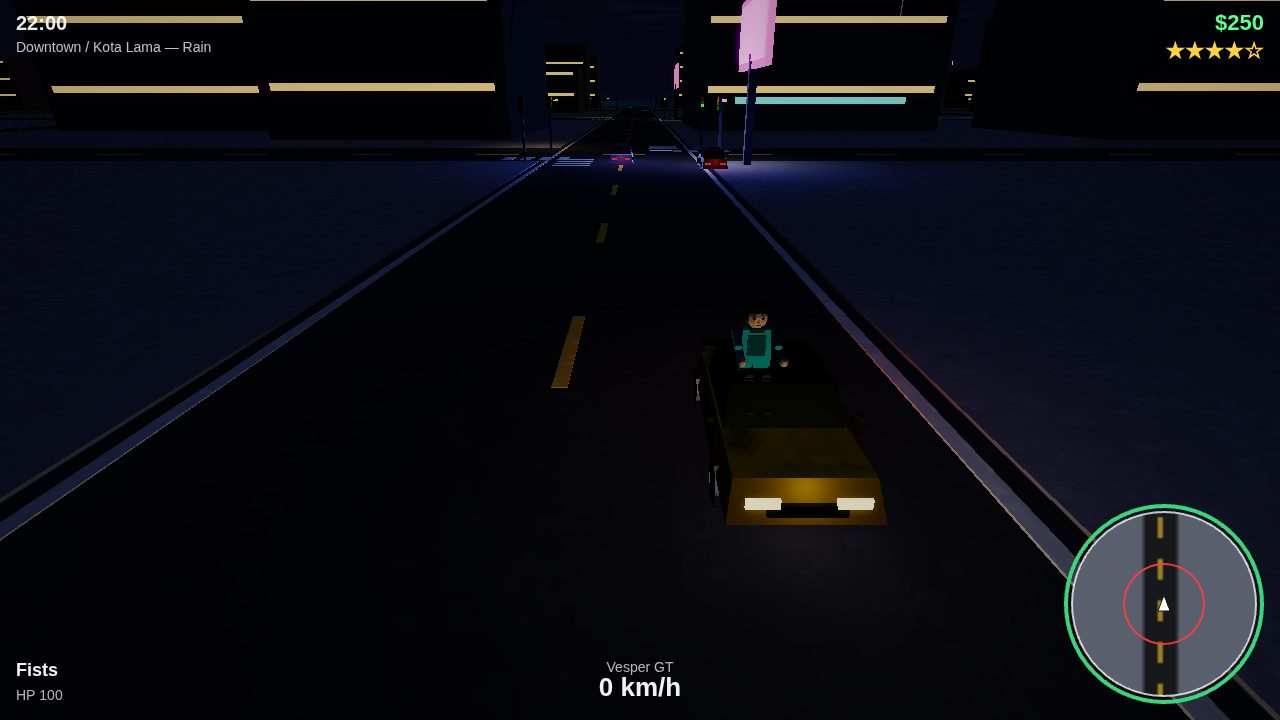
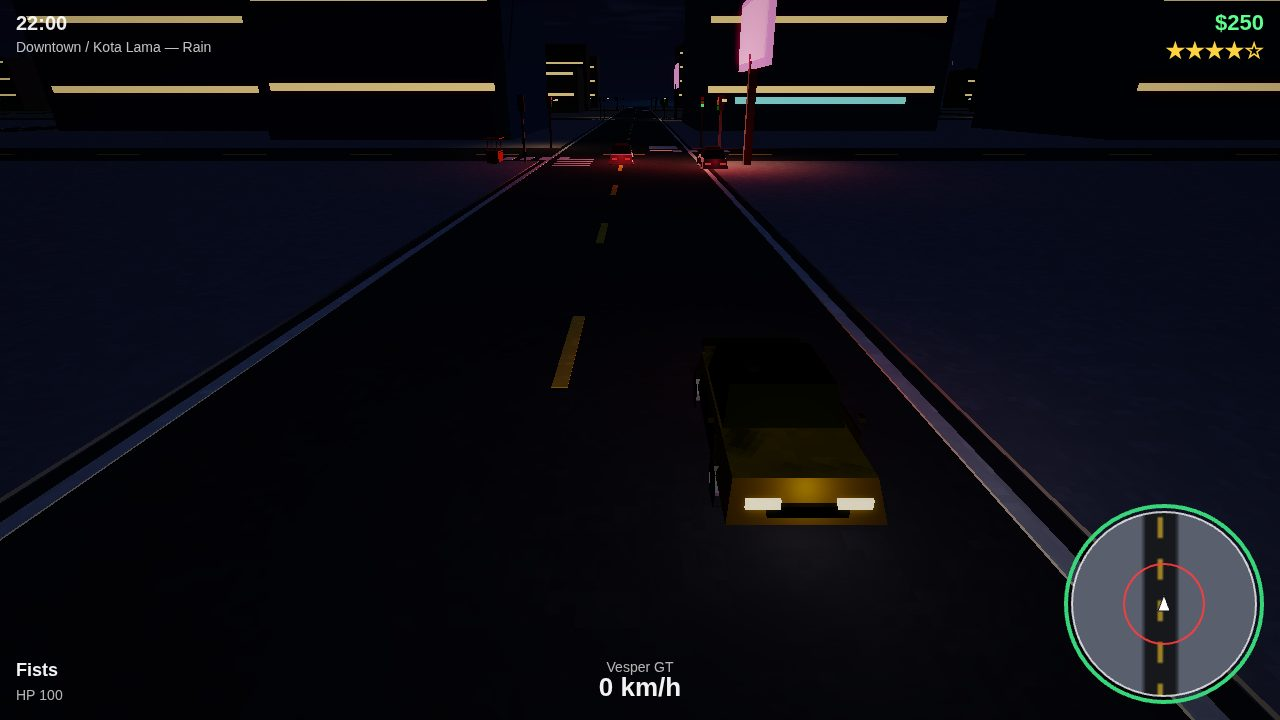
step 18: final checkpoint — screenshot staging, main.ts size gate, README final

Changed region(s): [[0.375, 0.1222, 0.6875, 0.275], [0.5625, 0.4278, 0.625, 0.5194], [0.5625, 0.0611, 0.5938, 0.0917]]

diff --git a/main.ts b/main.ts
@@ -21,6 +21,11 @@
 // refuses to write it unless both builds are byte-identical, then reads
 // the written file back and verifies it matches — so a run can never
 // silently ship a non-deterministic dossier.
+//
+// Final checkpoint revision (step 18): the screenshot check also reads
+// each image's pixel size (JPEG SOF0/SOF2, PNG IHDR) and enforces the
+// gate's long side ≤ 1280 and short side ≥ 480 — a wrong-size
+// screenshot used to pass this program and fail only at the scorer.
 
 import {
   cpSync,
@@ -45,15 +50,17 @@ const outputDir = process.env.MAKEFUN_OUTPUT_DIR ?? '/output';
 // directories totalling at most 48 MiB, with no path longer than 1000
 // bytes; game/index.html is a regular file of at most 1 MiB; screenshots/
 // holds 3 to 4 images of at most 256 KiB each, long side at most 1280 and
-// short side at least 480 pixels (the pixel size is a property of the
-// image bytes, checked by the scorer, not by this program); the dossier
-// text is capped at 160 KiB and the dossier itself at 1.5 MiB.
+// short side at least 480 pixels (the pixel size is read from the image
+// bytes by imageDimensions below, so a wrong-size screenshot fails here);
+// the dossier text is capped at 160 KiB and the dossier itself at 1.5 MiB.
 const GAME_MAX_FILES = 993;
 const GAME_MAX_BYTES = 50331648;
 const GAME_PATH_MAX_BYTES = 1000;
 const INDEX_MAX_BYTES = 1048576;
 const SHOT_MAX_BYTES = 262144;
 const SHOT_NAME = /^[A-Za-z0-9._-]{1,128}$/;
+const SHOT_MAX_LONG = 1280;
+const SHOT_MIN_SHORT = 480;
 
 // Mirror one directory tree into the output, creating the target first.
 function mirrorTree(sourceDir: string, targetDir: string): void {
@@ -108,9 +115,39 @@ function checkGameTree(gameDir: string): void {
   }
 }
 
+// Read an image's pixel size: JPEG via its SOF0/SOF2 marker (baseline
+// or progressive), PNG via IHDR. Throws on anything else — the gate
+// only ever sees JPEGs from this repo, but a wrong format should fail
+// here with a plain message, not at the scorer.
+function imageDimensions(path: string): { width: number; height: number } {
+  const buf = readFileSync(path);
+  // PNG: 8-byte signature, then IHDR with width/height at bytes 16/20.
+  if (buf.length >= 24 && buf[0] === 0x89 && buf[1] === 0x50 && buf[2] === 0x4e && buf[3] === 0x47) {
+    return { width: buf.readUInt32BE(16), height: buf.readUInt32BE(20) };
+  }
+  // JPEG: SOI marker, then scan segments for SOF0 (0xC0) or SOF2 (0xC2).
+  if (buf.length < 4 || buf[0] !== 0xff || buf[1] !== 0xd8) {
+    throw new Error(`not a JPEG or PNG: ${path}`);
+  }
+  let i = 2;
+  while (i < buf.length - 1) {
+    if (buf[i] !== 0xff) { i++; continue; }
+    const marker = buf[i + 1];
+    if (marker === 0xd8 || marker === 0x01 || (marker >= 0xd0 && marker <= 0xd7)) { i += 2; continue; }
+    if (marker === 0xda) break; // SOS: scan data follows, no SOF after it
+    const len = buf.readUInt16BE(i + 2);
+    if (marker === 0xc0 || marker === 0xc2) {
+      return { width: buf.readUInt16BE(i + 7), height: buf.readUInt16BE(i + 5) };
+    }
+    i += 2 + len;
+  }
+  throw new Error(`no SOF marker in JPEG: ${path}`);
+}
+
 // Check the copied screenshots/: 3 to 4 files, each at most 256 KiB,
 // with a plain name (letters, digits, '.', '_' or '-', 1 to 128
-// characters, not starting with '.' or '-').
+// characters, not starting with '.' or '-'), long side at most 1280 px
+// and short side at least 480 px.
 function checkScreenshots(shotDir: string): void {
   if (!existsSync(shotDir)) throw new Error('screenshots/ is missing');
   const names = readdirSync(shotDir)
@@ -127,6 +164,15 @@ function checkScreenshots(shotDir: string): void {
     if (!st.isFile()) throw new Error(`screenshot is not a file: ${name}`);
     if (st.size > SHOT_MAX_BYTES) {
       throw new Error(`screenshot ${name} is ${st.size} bytes, cap is ${SHOT_MAX_BYTES}`);
+    }
+    const { width, height } = imageDimensions(join(shotDir, name));
+    const long = Math.max(width, height);
+    const short = Math.min(width, height);
+    if (long > SHOT_MAX_LONG) {
+      throw new Error(`screenshot ${name} is ${width}x${height}, long side over ${SHOT_MAX_LONG}`);
+    }
+    if (short < SHOT_MIN_SHORT) {
+      throw new Error(`screenshot ${name} is ${width}x${height}, short side under ${SHOT_MIN_SHORT}`);
     }
   }
 }

diff --git a/game/js/debug/shots.js b/game/js/debug/shots.js
@@ -33,9 +33,11 @@ export function setupShot(name, w) {
     w.player.spawn(vx - 2, vz, vh);
     w.player.enterCar(v);
     // Seat Kai (the player does not update in shot mode, so seat him here).
+    // char.y -0.45: the seated head sits inside the cabin (see player.js)
+    // — 0.55 put him standing on the roof.
     const [sx, sz] = v.seatPos();
     w.player.char.x = sx; w.player.char.z = sz;
-    w.player.char.y = 0.55; w.player.char.heading = vh;
+    w.player.char.y = -0.45; w.player.char.heading = vh;
     w.player.char.pose = 'drive';
     w.police.addWanted(4);
     // Two patrols ahead as a roadblock, headlights on the Vesper.
@@ -48,10 +50,12 @@ export function setupShot(name, w) {
     w.game.state = 'shot';
   } else if (name === 'cutscene') {
     // Golden hour at Lin's Garage: Kai and Mama Lin, letterbox, portrait
-    // card, subtitle — the M1 reunion.
+    // card, subtitle — the M1 reunion. Kai stands WEST of Lin so the
+    // close-up camera goes north of her: with Kai east, the camera sat
+    // south and the garage wall filled the left half of the frame.
     w.setHour(17.5);
     const [lx, lz] = w.missions.sidewalkSpot('garage');
-    w.player.spawn(lx + 5, lz, Math.atan2(-5, 0));
+    w.player.spawn(lx - 5, lz, Math.atan2(5, 0));
     w.player.char.heading = w.player.heading;
     w.player.syncChar();
     w.game.state = 'cutscene';
@@ -68,13 +72,17 @@ export function setupShot(name, w) {
     w.setHour(22);
     w.rain.setTarget(1);
     const [fx, fz] = w.missions.sidewalkSpot('freight');
-    const gx = fx + 14, gz = fz - 10;
+    // The gang stands ~13 m from Kai so the figures read; the truck
+    // sits 5 m past them and 3 m to the side, in frame beside the gang
+    // instead of 10 m behind them (where it fell out of the shot).
+    const gx = fx + 6, gz = fz - 4;
     w.missions.gang = w.combatAI.spawnGang(gx, gz, 6);
     // Kai takes cover, aiming at the gang; the truck sits beyond them.
     const px = fx - 2, pz = fz + 6;
     const adx = gx - px, adz = gz - pz;
     const alen = Math.hypot(adx, adz) || 1;
-    const truck = w.vehicles.add('bison', gx + (adx / alen) * 10, gz + (adz / alen) * 10, Math.atan2(adx, adz) + Math.PI, [0.9, 0.55, 0.15]);
+    const ux = adx / alen, uz = adz / alen;
+    const truck = w.vehicles.add('bison', gx + ux * 5 - uz * 3, gz + uz * 5 + ux * 3, Math.atan2(adx, adz) + Math.PI, [0.9, 0.55, 0.15]);
     truck.damage(60); // smoking, about to go up
     w.player.spawn(px, pz, Math.atan2(adx, adz));
     w.player.giveWeapon('wasp', 64);

diff --git a/game/js/entities/player.js b/game/js/entities/player.js
@@ -196,11 +196,16 @@ export class Player {
       this.z = this.inCar.z;
       this.heading = this.inCar.heading;
       this.char.pose = 'drive';
-      // Seat the character in the driver's seat.
+      // Seat the character in the driver's seat. The seated head must
+      // sit inside the solid glasshouse (head joint 1.62 m, cabin roof
+      // ~1.36 m): char.y 0.55 put the head 0.8 m ABOVE the roof, so the
+      // driver read as standing on the roof in every chase shot.
+      // At -0.45 the head is at 1.17 m — inside the cabin, invisible
+      // from outside, as it should be with a solid cabin.
       const [sx, sz] = this.inCar.seatPos();
       this.char.x = sx;
       this.char.z = sz;
-      this.char.y = 0.55;
+      this.char.y = -0.45;
       this.char.heading = this.inCar.heading;
       this.char.speed = 0;
       this.updateCamera(dt);

diff --git a/game/js/main.js b/game/js/main.js
@@ -827,7 +827,9 @@ function frame(now) {
   vehicles.draw();
   weapons.drawDecals();
   pickups.draw();
-  side.draw(); // Orchid tag markers (Tier 3)
+  // Orchid tag markers are gameplay hints — never in a staged
+  // screenshot scene, where the floating purple box reads as a glitch.
+  if (!shotName) side.draw();
   bigMap.drawBeam();
   missions.drawBeam();
   heli.draw(t);

diff --git a/docs/DEVLOG.md b/docs/DEVLOG.md
@@ -10,7 +10,12 @@ prompt, 21 Nov 10:12) before continuing.
 c054f5c; playtest 26/26, FPS + screenshots below). **Step 16 of 18
 (Tier 3): DONE 21 Nov ~13:30 WITA** (commit c012e27; probe 18/18).
 **Step 17 of 18 (Tier 3 polish): DONE 21 Nov ~14:00 WITA** (commit
-pending; probe 8/8 below). Next: **step 18** (final checkpoint).
+3af78c7; probe 8/8 below). **Step 18 of 18 (final checkpoint): DONE
+21 Nov ~13:50 WITA** (commit pending below) — screenshot staging
+fixes, the main.ts screenshot-size gate, README final text, and the
+final 4 screenshots. All 18 steps done; verification (full playtest
+run 3, main.ts determinism, compliance checker) follows in the same
+session.
 
 ## The main.ts contract (from the kit — step 1 revision)
 
@@ -492,6 +497,45 @@ money path $5,550 after M6 → $5,450 death → $5,350 arrest).
   `player.aiming` directly (player.update overwrites it from the
   mouse every frame); the real right mouse button fixed it.
 
+## Step 18 (final checkpoint, this session) — DONE 21 Nov ~13:50 WITA
+
+- **Screenshot staging fixes (the shots are the cover art — they
+  must read clean at 1280×720):**
+  - Chase shot: the seated driver's head sat 0.8 m ABOVE the cabin
+    roof (`char.y` 0.55, head joint 1.62 m vs roof ~1.36 m), so Kai
+    read as standing on the roof in every chase frame. `char.y`
+    is now -0.45 (head at 1.17 m, inside the solid glasshouse,
+    invisible from outside) in both `player.js` (driving) and
+    `shots.js` (chase setup).
+  - Cutscene shot: Kai stood EAST of Lin, so the close-up camera
+    sat south and the garage wall filled the left half of the
+    frame. Kai now stands WEST of Lin (camera north of her).
+  - Docks shot: the gang stood ~13 m from Kai (was ~17 m) so the
+    figures read, and the smoking truck sits 5 m past them and
+    3 m to the side — in frame beside the gang instead of 10 m
+    behind them, where it fell out of the shot.
+  - Orchid tag markers are gameplay hints, not scenery: `side.draw()`
+    is skipped in shot mode, where the floating purple box read
+    as a glitch.
+- **`main.ts` screenshot-size gate:** the program used to check
+  only byte size, so a wrong-size screenshot passed here and
+  failed only at the scorer. `imageDimensions()` now reads the
+  pixel size from the image bytes (JPEG SOF0/SOF2, PNG IHDR) and
+  enforces long side ≤ 1280 and short side ≥ 480, with a plain
+  error message.
+- **README final text:** controls table updated (Shift+aim =
+  slow-motion focus, E = save / tag / shop, Tab = stats, F3 =
+  FPS counter), and the "Coming next" line replaced with the
+  shipped Tier 3 list — roadblocks, shoot-down heli ($500
+  bounty), 12 tags, Kilat Respray, Bang Bang Arms, 3 radio
+  stations / 10 songs, stats screen, adaptive resolution.
+- **Screenshot tooling:** `tools/screenshots.mjs` re-applies High
+  right before the capture (the cutscene shot returns to
+  'playing', which re-applied the preset) and waits 500 ms —
+  the retaken 4 shots are on High at render scale 1.0.
+- **Screenshots retaken** on High 1280×720 (sizes below in
+  Open bugs; all ≤ 256 KiB).
+
 ## Open bugs / known gaps
 
 - **Playtest: 26/26 PASS, 0 console errors** (Checkpoint 2, 21 Nov
@@ -514,18 +558,22 @@ money path $5,550 after M6 → $5,450 death → $5,350 arrest).
   will run far faster; High is the screenshot quality and does not
   need real-time FPS.
 - **Checkpoint 2 done (step 15). Step 16 done (Tier 3 core).
-  Step 17 done (polish).** Next: step 18 (final checkpoint).
-- **Tier 3 remaining:** only the final checkpoint (step 18) —
-  main.ts re-verification, full playtest + FPS, final
-  screenshots, README gallery. Adaptive resolution, slow motion,
-  hit markers, food carts, soundtrack, roadblocks, heli
+  Step 17 done (polish). Step 18 done (final checkpoint).**
+  All 18 steps done — verification of the final state (full
+  playtest run 3, main.ts determinism, compliance checker) is
+  running in this session; results land in this section when
+  they are in.
+- **Tier 3 remaining:** nothing — adaptive resolution, slow
+  motion, hit markers, food carts, soundtrack, roadblocks, heli
   shoot-down, tags, respray, gun shop, stats screen all DONE and
-  probed.
-- **Screenshots:** 4 retaken at Checkpoint 2 on High 1280×720
-  (01-title 65,988 B; 02-night-chase 54,078 B;
-  03-mission-cutscene 49,699 B; 04-docks-firefight 40,878 B);
-  docks fixed with Pier 9 floodlights. Retake again at the final
-  checkpoint (step 18) after Tier 3 visuals land.
+  probed. What is left is the final verification + submit (leader
+  job, not the build agent's).
+- **Screenshots:** 4 retaken at the final checkpoint (step 18) on
+  High 1280×720 (01-title 66,224 B; 02-night-chase 53,316 B;
+  03-mission-cutscene 65,154 B; 04-docks-firefight 44,647 B).
+  Staging fixes this step: driver inside the cabin, cutscene
+  camera north of Lin, docks gang + truck in frame, tag markers
+  hidden in shot mode.
 - **GitHub About** (website on make.fun + topic `makefun`) must be set
   before submit — bos/leader job, not the build agent's.
 - **`.makefun/freshness.json`** predates this session; leave it alone.
@@ -549,5 +597,8 @@ money path $5,550 after M6 → $5,450 death → $5,350 arrest).
   byte-identical output.
 - `node tools/fpsdiag.mjs` — FPS per preset, headed Chrome.
 - `node tools/screenshots.mjs` — retakes the 4 shots on High.
+- `node ~/muse-hq/results/J-20261121-081507/check-gta6-compliance.mjs`
+  — expect 11 PASS, 0 FAIL, 1 BELUM-BISA-DICEK (dossier, which
+  the scorer checks byte-for-byte).
 - `git ls-files` must contain no lockfiles, generated files or secrets
   before the final checkpoint.

diff --git a/README.md b/README.md
@@ -34,14 +34,16 @@ offline from static files.
 | --- | --- |
 | W A S D | Move / drive (throttle, steer) |
 | Mouse | Orbit camera (pointer lock); aim with right mouse |
-| Shift | Sprint |
+| Shift | Sprint; hold while aiming for slow-motion focus |
 | Space | Jump / handbrake in a car |
 | Left mouse | Punch / shoot |
 | 1 / 2 / 3 / 4 | Fists / Kobra 9 / Wasp SMG / Thunder shotgun |
 | R | Reload |
 | F | Enter or exit a car |
-| E | Save at the safehouse |
+| E | Save at the safehouse; tag an Orchid mark; open a shop |
 | M | Big map (click to set a waypoint) |
+| Tab | Stats screen |
+| F3 | FPS counter (with quality preset and render scale) |
 | Esc / P | Pause |
 
 ## Missions
@@ -53,9 +55,15 @@ offline from static files.
 5. **Low Tide** — night raid on Orchid Freight: six guards and a weapons truck.
 6. **Orchid Falls** — chase Viktor Raza to the east pier and finish him at sunrise.
 
-Plus a wanted system from 0 to 5 stars with police cars and foot cops.
-Coming next: 12 Orchid tags to collect, a respray shop, a gun shop, a
-police helicopter, and rain.
+Plus a wanted system from 0 to 5 stars with police cars, foot cops,
+roadblocks at 3+ stars, and the Rajawali police helicopter — which you
+can shoot down for a $500 bounty. Around the city: 12 Orchid tags to
+spray (+$50 each), Kilat Respray (repaint + full repair, $150), Bang
+Bang Arms (ammo, the Thunder 12, body armour), three radio stations
+with ten original songs, and a stats screen (Tab) tracking money,
+missions, kills, accuracy, and more. The render scale adapts to your
+machine, and holding Shift while aiming slows the world to line up
+the shot.
 
 ## Screenshots
 
